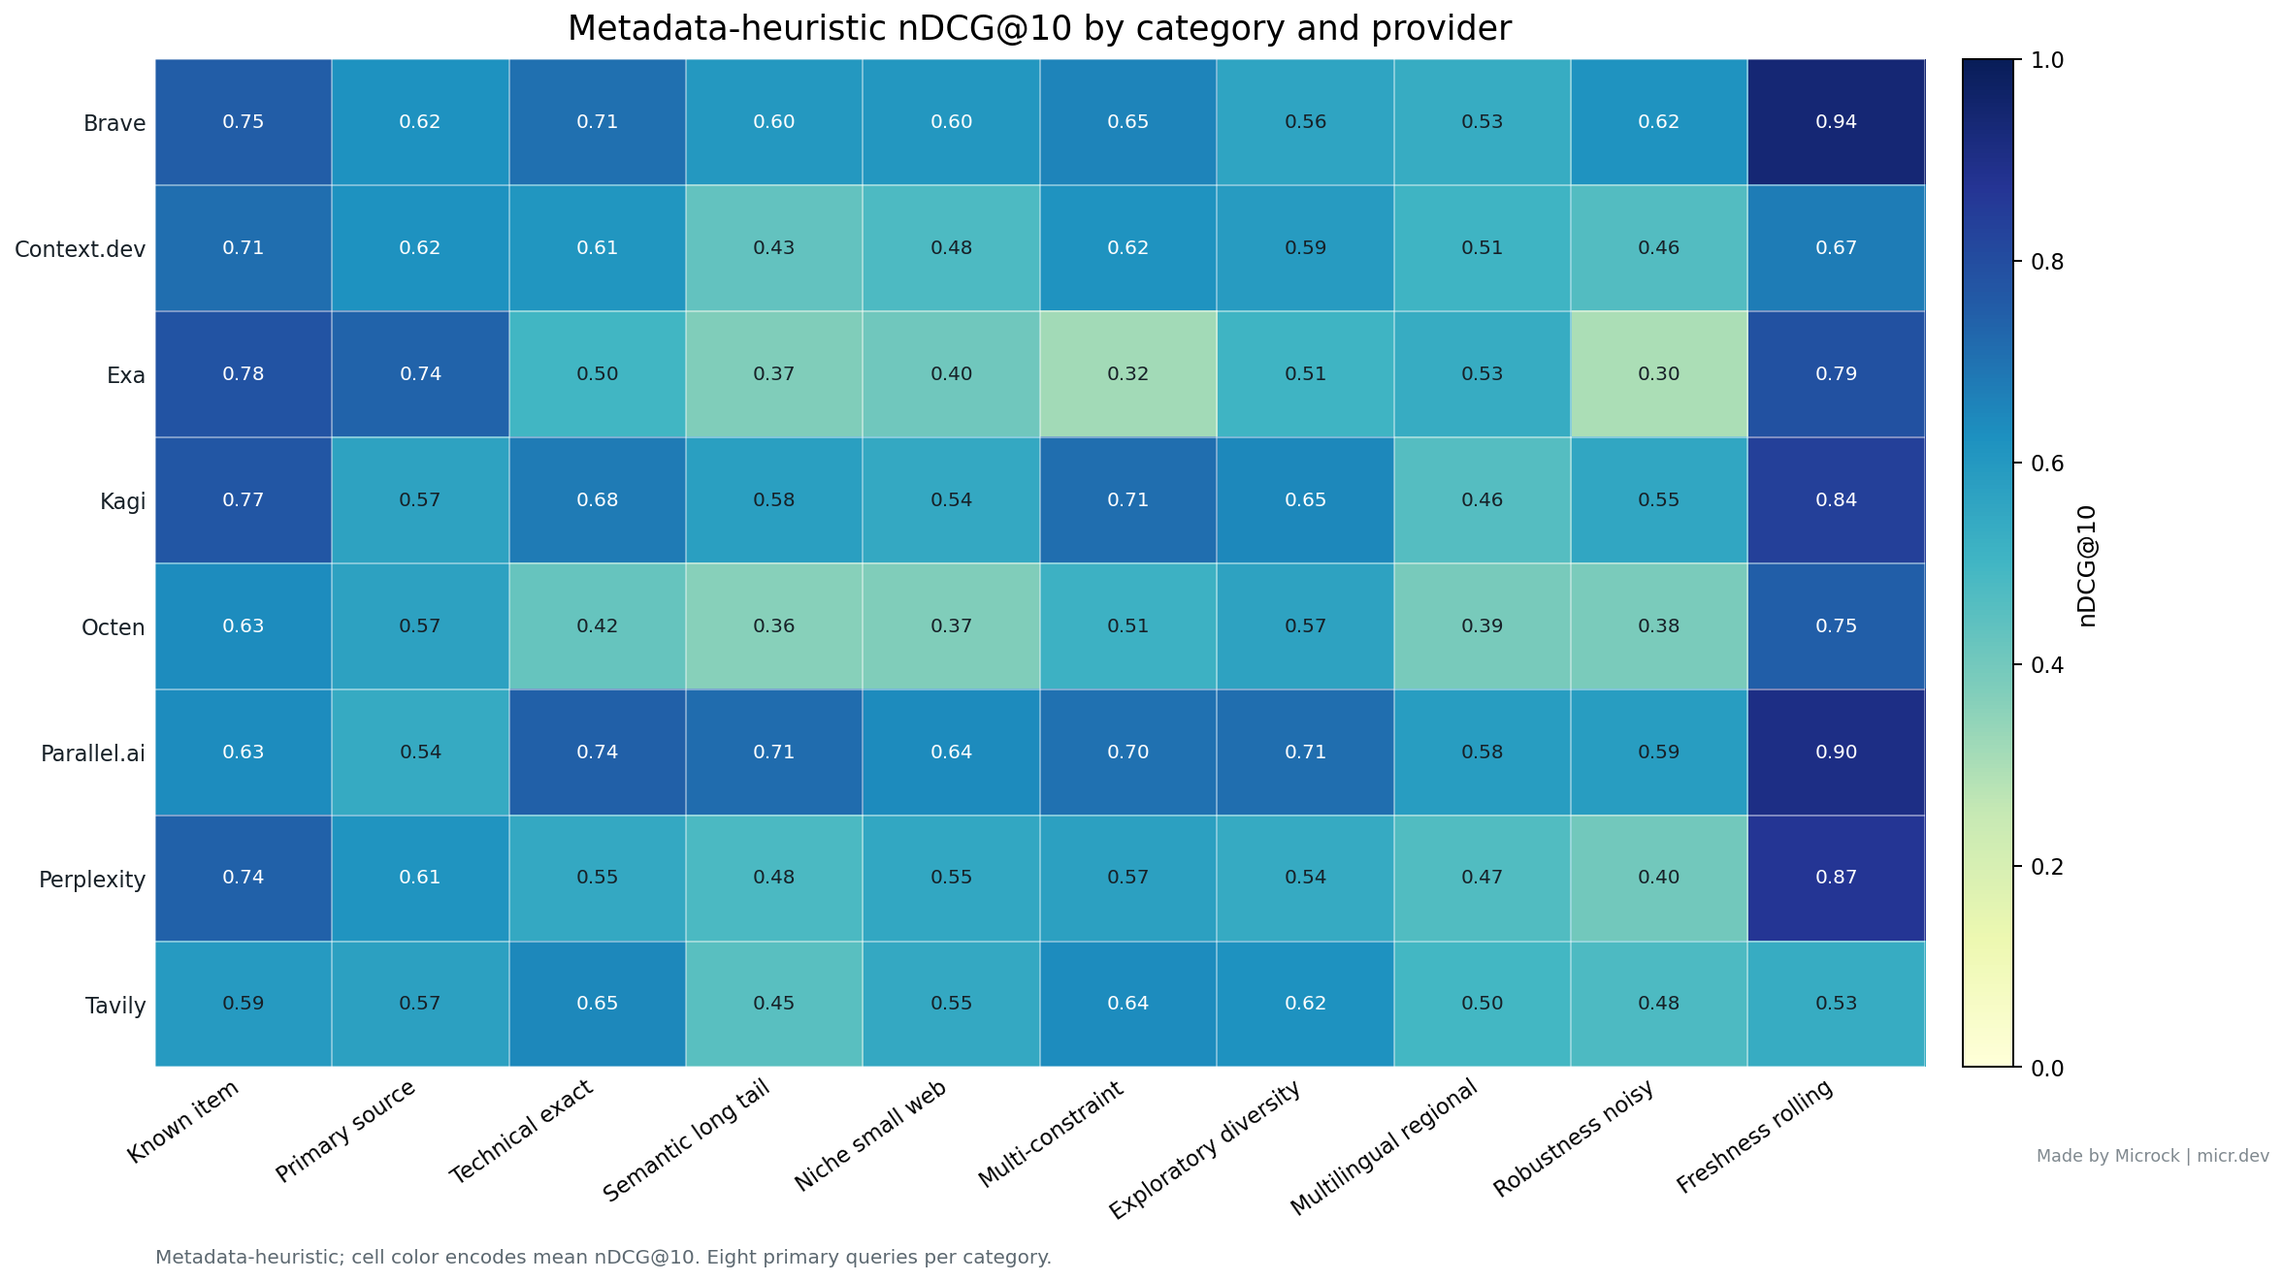
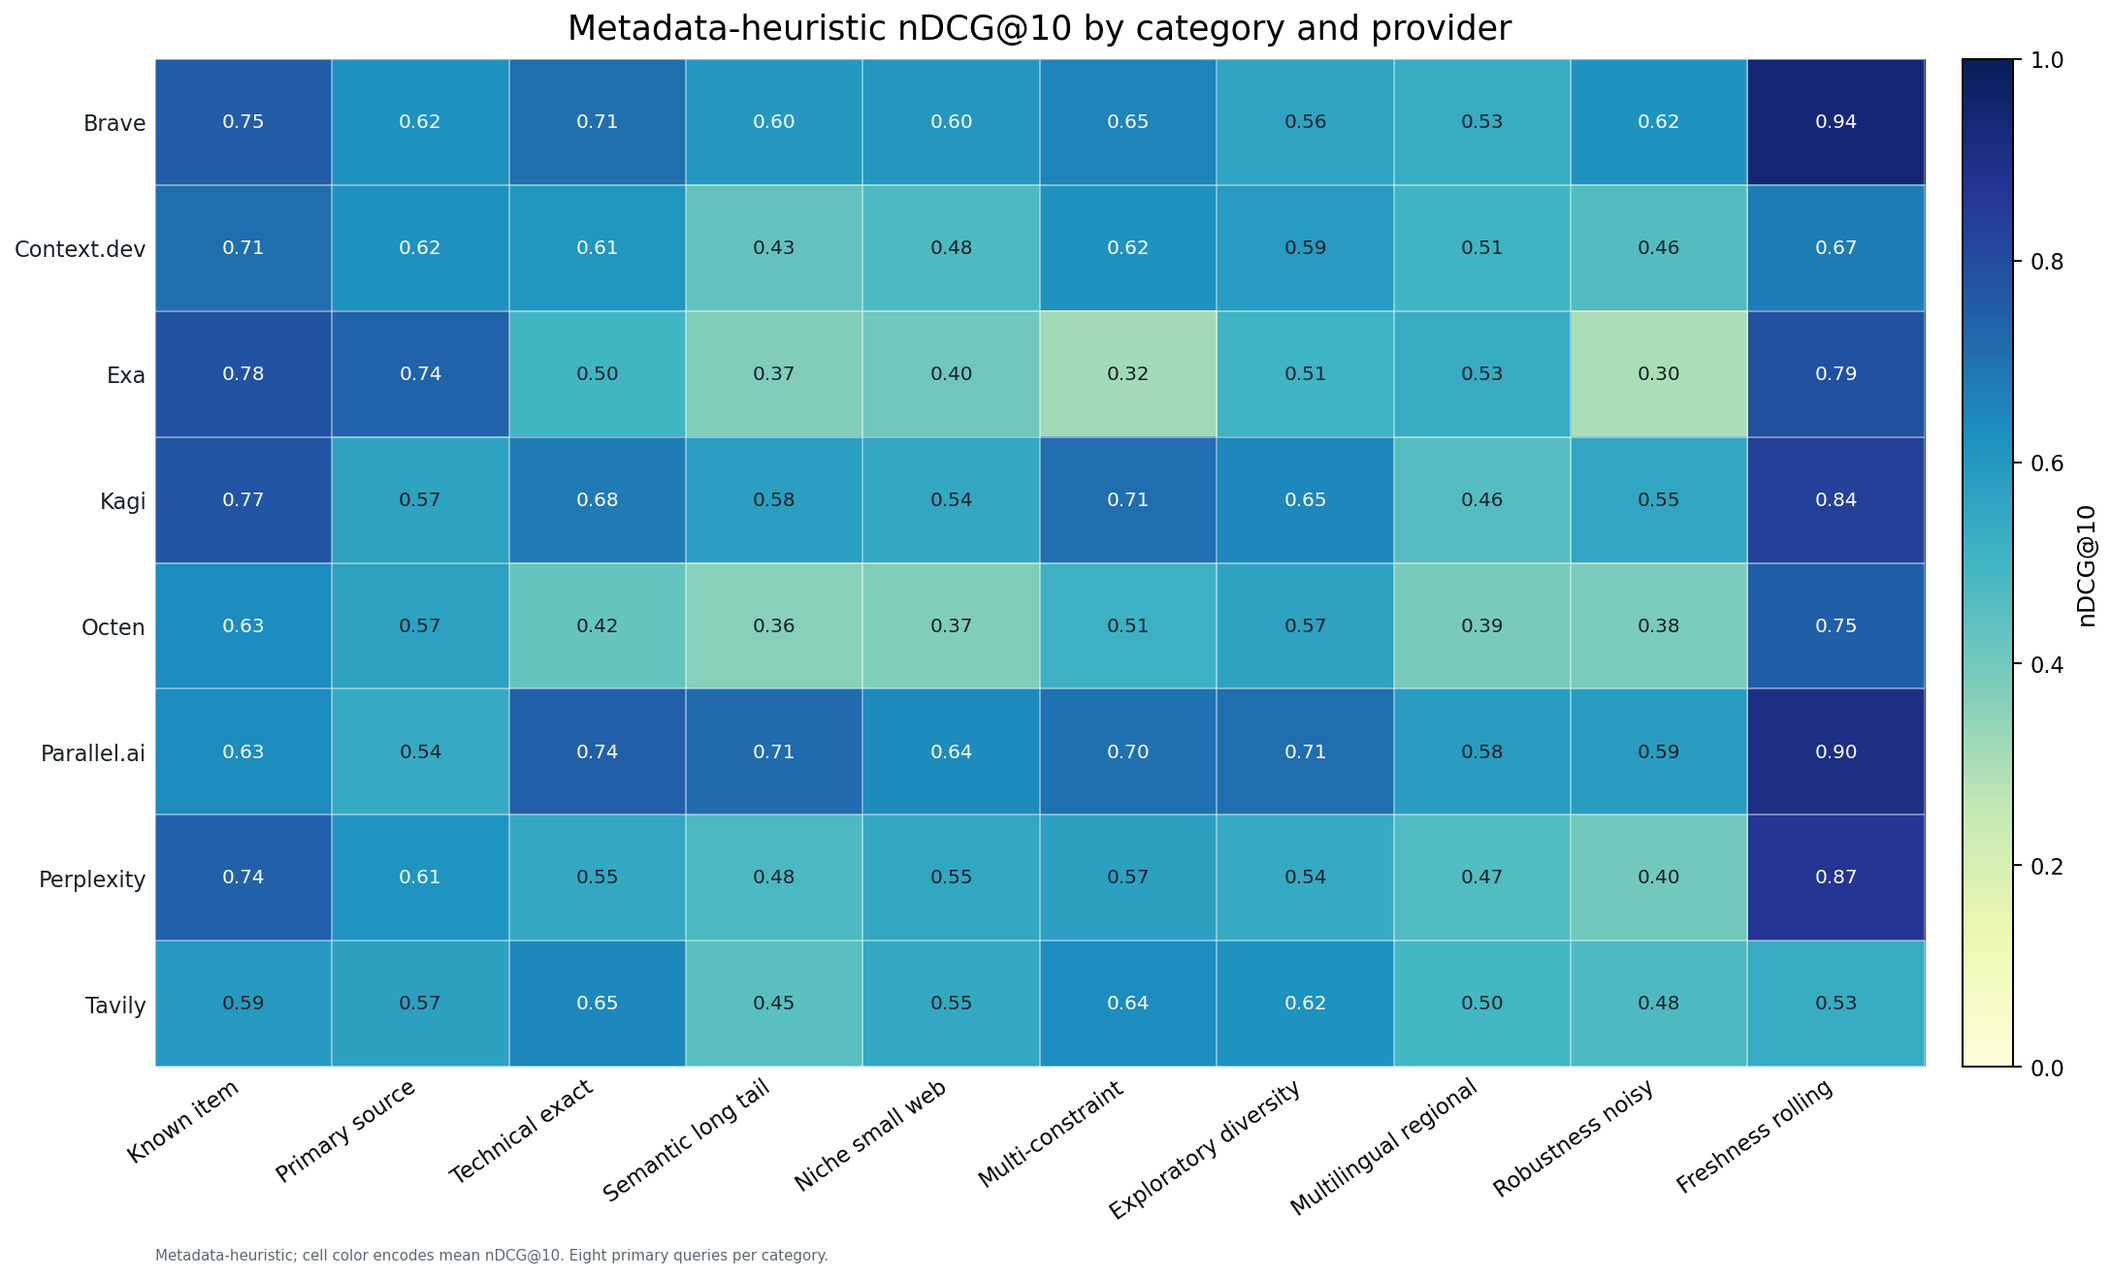
fix(charts): remove watermark and shrink chart footers
Remove the attribution overlay from all chart renderers and regenerate the published PNGs. Centralize explanatory footer sizing at 6 pt so the notes remain available without competing with the chart content.

diff --git a/analysis/plot_report.py b/analysis/plot_report.py
@@ -40,9 +40,9 @@ import numpy as np
 try:
     from chart_style import (
         BRAND_COLORS,
-        add_watermark,
         category_order,
         finish_heatmap,
+        FOOTER_SIZE,
         provider_order,
         style_heatmap_axes,
         annotate_heatmap,
@@ -50,9 +50,9 @@ try:
 except ImportError:  # pragma: no cover - supports package-style imports
     from .chart_style import (
         BRAND_COLORS,
-        add_watermark,
         category_order,
         finish_heatmap,
+        FOOTER_SIZE,
         provider_order,
         style_heatmap_axes,
         annotate_heatmap,
@@ -245,9 +245,8 @@ def save_overall_quality(out_dir: Path, summary: Dict[str, dict]) -> None:
     ax.set_title(method_title("nDCG@10 with 95% CI"))
     ax.invert_yaxis()
     ax.grid(axis="x", alpha=0.3)
-    fig.text(0.01, 0.01, f"{METHOD_LABEL}; each dot is the mean nDCG@10 across 80 primary queries; whiskers show the paired-bootstrap 95% confidence interval.", fontsize=8, color="#5c6870")
+    fig.text(0.01, 0.01, f"{METHOD_LABEL}; each dot is the mean nDCG@10 across 80 primary queries; whiskers show the paired-bootstrap 95% confidence interval.", fontsize=FOOTER_SIZE, color="#5c6870")
     fig.tight_layout(rect=(0, 0.05, 1, 1))
-    add_watermark(fig)
     fig.savefig(out_dir / "01_overall_quality_dot_whisker.png", dpi=180)
     plt.close(fig)
 
@@ -323,9 +322,8 @@ def save_win_tie_loss(out_dir: Path, per_query: List[dict], threshold: float = 0
     ax.set_title(method_title(f"paired win-tie-loss (tie threshold +/-{threshold:.2f} nDCG@10)"))
     ax.grid(axis="x", alpha=0.25)
     ax.legend(loc="lower center", bbox_to_anchor=(0.5, 1.02), ncol=3, frameon=False)
-    fig.text(0.01, 0.01, f"{METHOD_LABEL}; blue means the first provider wins, red means it loses, and gray means tie. Hatching provides a second visual cue.", fontsize=8, color="#5c6870")
+    fig.text(0.01, 0.01, f"{METHOD_LABEL}; blue means the first provider wins, red means it loses, and gray means tie. Hatching provides a second visual cue.", fontsize=FOOTER_SIZE, color="#5c6870")
     fig.tight_layout(rect=(0, 0.05, 1, 0.91))
-    add_watermark(fig)
     fig.savefig(out_dir / "03_pairwise_win_tie_loss.png", dpi=180)
     plt.close(fig)
 
@@ -362,9 +360,8 @@ def save_latency_ecdf(out_dir: Path, run_rows: List[dict]) -> None:
     ax.set_title(chart_title("Latency distribution of successful requests"))
     ax.grid(alpha=0.3)
     ax.legend(loc="lower center", bbox_to_anchor=(0.5, 1.02), ncol=3, frameon=False)
-    fig.text(0.01, 0.01, "Successful requests only (HTTP 2xx, no error). Each step is one observed latency value.", fontsize=8, color="#5c6870")
+    fig.text(0.01, 0.01, "Successful requests only (HTTP 2xx, no error). Each step is one observed latency value.", fontsize=FOOTER_SIZE, color="#5c6870")
     fig.tight_layout(rect=(0, 0.05, 1, 0.91))
-    add_watermark(fig)
     fig.savefig(out_dir / "05_latency_ecdf.png", dpi=180)
     plt.close(fig)
 
@@ -403,9 +400,8 @@ def save_relevance_by_rank(out_dir: Path, score_rows: List[dict]) -> None:
     ax.set_title(method_title("relevance grade by result position"))
     ax.grid(alpha=0.3)
     ax.legend(loc="upper left", frameon=False)
-    fig.text(0.01, 0.01, f"{METHOD_LABEL}; mean relevance grade at each rank position across all primary queries. Grade scale: 0 (off-topic) to 3 (highly relevant).", fontsize=8, color="#5c6870")
+    fig.text(0.01, 0.01, f"{METHOD_LABEL}; mean relevance grade at each rank position across all primary queries. Grade scale: 0 (off-topic) to 3 (highly relevant).", fontsize=FOOTER_SIZE, color="#5c6870")
     fig.tight_layout(rect=(0, 0.05, 1, 1))
-    add_watermark(fig)
     fig.savefig(out_dir / "06_mean_relevance_by_rank.png", dpi=180)
     plt.close(fig)
 
@@ -441,9 +437,8 @@ def save_overlap(out_dir: Path, score_rows: List[dict]) -> None:
     ax.set_xlabel("Relevant query-URL pairs")
     ax.grid(axis="x", alpha=0.25)
     ax.set_title(method_title("relevant-result sharing and uniqueness"))
-    fig.text(0.01, 0.01, f"{METHOD_LABEL}; top 15 nonzero provider combinations by count. Relevant results have grade >= 2, and each bar counts query-URL pairs found by exactly that combination, including singleton providers.", fontsize=8, color="#5c6870")
+    fig.text(0.01, 0.01, f"{METHOD_LABEL}; top 15 nonzero provider combinations by count. Relevant results have grade >= 2, and each bar counts query-URL pairs found by exactly that combination, including singleton providers.", fontsize=FOOTER_SIZE, color="#5c6870")
     fig.tight_layout(rect=(0, 0.05, 1, 1))
-    add_watermark(fig)
     fig.savefig(out_dir / "07_relevant_result_overlap_upset_style.png", dpi=180)
     plt.close(fig)
 
@@ -493,9 +488,8 @@ def save_error_composition(out_dir: Path, run_rows: List[dict]) -> None:
     ax.set_title(chart_title("Error breakdown by failure type"))
     ax.grid(axis="y", alpha=0.25)
     ax.legend()
-    fig.text(0.01, 0.01, "Share of total recorded failures per provider. Providers with zero failures are not shown.", fontsize=8, color="#5c6870")
+    fig.text(0.01, 0.01, "Share of total recorded failures per provider. Providers with zero failures are not shown.", fontsize=FOOTER_SIZE, color="#5c6870")
     fig.tight_layout(rect=(0, 0.05, 1, 1))
-    add_watermark(fig)
     fig.savefig(out_dir / "08_error_composition.png", dpi=180)
     plt.close(fig)
 

diff --git a/analysis/make_operational_charts.py b/analysis/make_operational_charts.py
@@ -18,9 +18,9 @@ matplotlib.use("Agg")
 import matplotlib.pyplot as plt
 
 try:
-    from chart_style import BRAND_COLORS, add_watermark
+    from chart_style import BRAND_COLORS, FOOTER_SIZE
 except ImportError:  # pragma: no cover - supports package-style imports
-    from .chart_style import BRAND_COLORS, add_watermark
+    from .chart_style import BRAND_COLORS, FOOTER_SIZE
 
 
 PROVIDER_ORDER = ["brave", "context", "exa", "kagi_session", "octen", "parallel", "perplexity", "tavily"]
@@ -93,7 +93,6 @@ def ordered_summary(summary: pd.DataFrame) -> pd.DataFrame:
 
 
 def save_figure(fig: plt.Figure, path: Path) -> None:
-    add_watermark(fig)
     fig.savefig(path, dpi=180, bbox_inches="tight", pad_inches=0.05)
     plt.close(fig)
 
@@ -113,7 +112,7 @@ def make_latency_chart(summary: pd.DataFrame, out_dir: Path) -> None:
     for index, row in data.iterrows():
         ax.text(index - width / 2, row["p50_latency_ms"] + 55, f"{row['p50_latency_ms']:.0f}", ha="center", fontsize=8)
         ax.text(index + width / 2, row["p95_latency_ms"] + 55, f"{row['p95_latency_ms']:.0f}", ha="center", fontsize=8)
-    fig.text(0.01, 0.01, "All 96 requests per provider: 80 primary and 16 reference queries. Successful HTTP 2xx requests only.", fontsize=8, color="#5c6870")
+    fig.text(0.01, 0.01, "All 96 requests per provider: 80 primary and 16 reference queries. Successful HTTP 2xx requests only.", fontsize=FOOTER_SIZE, color="#5c6870")
     fig.tight_layout(rect=(0, 0.05, 1, 1))
     save_figure(fig, out_dir / "latency-summary.png")
 
@@ -132,7 +131,7 @@ def make_depth_chart(summary: pd.DataFrame, out_dir: Path) -> None:
     depth_ax.grid(axis="y", alpha=0.25)
     for index, value in enumerate(data["mean_results_per_request"]):
         depth_ax.text(index, value + 0.15, f"{value:.2f}", ha="center", fontsize=8)
-    depth_fig.text(0.01, 0.01, "All 96 requests per provider: 80 primary and 16 reference queries.", fontsize=8, color="#5c6870")
+    depth_fig.text(0.01, 0.01, "All 96 requests per provider: 80 primary and 16 reference queries.", fontsize=FOOTER_SIZE, color="#5c6870")
     depth_fig.tight_layout(rect=(0, 0.06, 1, 1))
     save_figure(depth_fig, out_dir / "result-depth.png")
 
@@ -145,7 +144,7 @@ def make_depth_chart(summary: pd.DataFrame, out_dir: Path) -> None:
     short_list_ax.grid(axis="y", alpha=0.25)
     for index, value in enumerate(data["short_list_pct"]):
         short_list_ax.text(index, value + 2, f"{value:.1f}%", ha="center", fontsize=8)
-    short_list_fig.text(0.01, 0.01, "96 requests per provider. Fewer than 10 results counts as a short list.", fontsize=8, color="#5c6870")
+    short_list_fig.text(0.01, 0.01, "96 requests per provider. Fewer than 10 results counts as a short list.", fontsize=FOOTER_SIZE, color="#5c6870")
     short_list_fig.tight_layout(rect=(0, 0.06, 1, 1))
     save_figure(short_list_fig, out_dir / "short-list-rate.png")
 
@@ -190,7 +189,6 @@ def make_cost_chart(summary: pd.DataFrame, billing: pd.DataFrame, out_dir: Path)
             y = bar.get_height() + label_offset
         ax.text(bar.get_x() + bar.get_width() / 2, y, label, ha="center", fontsize=8)
     fig.subplots_adjust(bottom=0.20, left=0.14, right=0.98, top=0.91)
-    add_watermark(fig)
     fig.savefig(out_dir / "cost-comparison.png", dpi=dpi, facecolor="white")
     plt.close(fig)
 
@@ -217,7 +215,7 @@ def make_latency_ecdf(runs: pd.DataFrame, out_dir: Path) -> None:
     ax.set_title("Latency distribution of successful requests")
     ax.grid(alpha=0.25)
     ax.legend()
-    fig.text(0.01, 0.01, "Successful requests only (HTTP 2xx, no error) across the 80 primary and 16 reference queries. Each step is one observed latency.", fontsize=8, color="#5c6870")
+    fig.text(0.01, 0.01, "Successful requests only (HTTP 2xx, no error) across the 80 primary and 16 reference queries. Each step is one observed latency.", fontsize=FOOTER_SIZE, color="#5c6870")
     fig.tight_layout(rect=(0, 0.05, 1, 1))
     save_figure(fig, out_dir / "latency-ecdf.png")
 

diff --git a/analysis/make_study_charts.py b/analysis/make_study_charts.py
@@ -26,8 +26,8 @@ try:
         CATEGORY_LABELS,
         CATEGORY_ORDER,
         DISPLAY_NAMES,
+        FOOTER_SIZE,
         HEATMAP_FIGSIZE,
-        add_watermark,
         annotate_heatmap,
         finish_heatmap,
         provider_order as shared_provider_order,
@@ -40,8 +40,8 @@ except ImportError:  # pragma: no cover - supports package-style imports
         CATEGORY_LABELS,
         CATEGORY_ORDER,
         DISPLAY_NAMES,
+        FOOTER_SIZE,
         HEATMAP_FIGSIZE,
-        add_watermark,
         annotate_heatmap,
         finish_heatmap,
         provider_order as shared_provider_order,
@@ -84,7 +84,6 @@ def load_inputs(run_dir: Path) -> dict[str, pd.DataFrame]:
 
 
 def save_figure(fig: plt.Figure, path: Path) -> None:
-    add_watermark(fig)
     fig.savefig(path, dpi=180, bbox_inches="tight", pad_inches=0.05)
     plt.close(fig)
 
@@ -321,7 +320,7 @@ def make_resolution_health(data: dict[str, pd.DataFrame], out_dir: Path) -> None
     axes[1].set_title("Resolver-observed success by rank")
     axes[1].grid(alpha=0.25)
     axes[1].legend(fontsize=8)
-    fig.text(0.01, 0.01, "Resolver snapshot: flagged does not prove unavailable. 403/429 can be access blocks; unresolved URLs were not tested.", fontsize=8, color="#5c6870")
+    fig.text(0.01, 0.01, "Resolver snapshot: flagged does not prove unavailable. 403/429 can be access blocks; unresolved URLs were not tested.", fontsize=FOOTER_SIZE, color="#5c6870")
     fig.tight_layout(rect=(0, 0.07, 1, 1))
     save_figure(fig, out_dir / "url-resolution-health.png")
 
@@ -493,7 +492,7 @@ def make_source_ecology(data: dict[str, pd.DataFrame], out_dir: Path) -> None:
     ax.set_title("Source ecology of the result lists")
     ax.grid(axis="x", alpha=0.25)
     ax.legend(fontsize=8, ncol=3, loc="lower left", bbox_to_anchor=(0, -0.34))
-    fig.text(0.01, 0.01, "Host share is descriptive, not a relevance or authority score. Other hosts includes every domain outside the eight most common.", fontsize=8, color="#5c6870")
+    fig.text(0.01, 0.01, "Host share is descriptive, not a relevance or authority score. Other hosts includes every domain outside the eight most common.", fontsize=FOOTER_SIZE, color="#5c6870")
     fig.tight_layout(rect=(0, 0.08, 1, 1))
     save_figure(fig, out_dir / "source-ecology.png")
 

diff --git a/analysis/make_artificial_analysis_chart.py b/analysis/make_artificial_analysis_chart.py
@@ -7,9 +7,9 @@ import matplotlib.ticker as ticker
 import numpy as np
 from pathlib import Path
 try:
-    from chart_style import BRAND_COLORS, DISPLAY_NAMES, HEATMAP_MUTED, HEATMAP_TEXT, add_watermark
+    from chart_style import BRAND_COLORS, DISPLAY_NAMES, FOOTER_SIZE, HEATMAP_MUTED, HEATMAP_TEXT
 except ImportError:  # pragma: no cover - supports package-style imports
-    from .chart_style import BRAND_COLORS, DISPLAY_NAMES, HEATMAP_MUTED, HEATMAP_TEXT, add_watermark
+    from .chart_style import BRAND_COLORS, DISPLAY_NAMES, FOOTER_SIZE, HEATMAP_MUTED, HEATMAP_TEXT
 
 TARGET_QUALITY = 0.55
 TARGET_BAND_COLOR = "#e8f2eb"
@@ -162,9 +162,8 @@ def create_pareto_chart(
     if include_frontier:
         ax.legend(loc="lower right", frameon=False)
 
-    fig.text(0.01, 0.01, footer, fontsize=8, color=HEATMAP_MUTED)
+    fig.text(0.01, 0.01, footer, fontsize=FOOTER_SIZE, color=HEATMAP_MUTED)
     fig.tight_layout(rect=(0, 0.05, 1, 1))
-    add_watermark(fig)
     
     plt.savefig(out_path, dpi=180, bbox_inches="tight", facecolor="white")
     plt.close(fig)
@@ -257,14 +256,13 @@ def create_ai_3d_chart(data: list, out_path: Path) -> None:
         0.01,
         0.01,
         "Supplementary 3D view. Height is mean AI-judged nDCG@10; cost bases are provider-specific. Use the 2D Pareto charts for exact trade-offs.",
-        fontsize=8,
+        fontsize=FOOTER_SIZE,
         color=HEATMAP_MUTED,
     )
     fig.subplots_adjust(left=0.01, right=0.87, bottom=0.12, top=0.93)
     # The fixed camera projects the cube toward the right side of the canvas;
     # shift the complete axes left so the angled cost label has breathing room.
     ax.set_position([-0.09, 0.12, 0.86, 0.81])
-    add_watermark(fig, x=0.84)
     plt.savefig(out_path, dpi=180, bbox_inches="tight", pad_inches=0.08, facecolor="white")
     plt.close(fig)
     print(f"Generated AI quality-cost-latency 3D chart at {out_path}")

diff --git a/analysis/make_final_link_health_chart.py b/analysis/make_final_link_health_chart.py
@@ -15,9 +15,9 @@ import numpy as np
 from PIL import Image, ImageDraw, ImageFont
 
 try:
-    from chart_style import DISPLAY_NAMES, provider_order
+    from chart_style import DISPLAY_NAMES, FOOTER_SIZE, provider_order
 except ImportError:  # pragma: no cover - supports package-style imports
-    from .chart_style import DISPLAY_NAMES, provider_order
+    from .chart_style import DISPLAY_NAMES, FOOTER_SIZE, provider_order
 
 
 ORDER = [
@@ -85,7 +85,7 @@ def render_historical_targeted_chart(input_path: Path, output_path: Path, *, tit
     axis.set_axisbelow(True)
     handles, legend_labels = axis.get_legend_handles_labels()
     fig.legend(handles, legend_labels, loc="upper center", bbox_to_anchor=(0.5, 0.90), ncol=3, frameon=False)
-    fig.text(0.5, 0.02, subtitle, ha="center", fontsize=8, color="#5c6870")
+    fig.text(0.5, 0.02, subtitle, ha="center", fontsize=FOOTER_SIZE, color="#5c6870")
     fig.subplots_adjust(top=0.70, bottom=0.22, left=0.08, right=0.98)
     output_path.parent.mkdir(parents=True, exist_ok=True)
     fig.savefig(output_path, dpi=180, bbox_inches="tight", facecolor="white")
@@ -177,7 +177,7 @@ def render(input_path: Path, output_path: Path) -> None:
         0.01,
         "Provider-local normalized URL counts. Clean share is GET OK or GET redirect. Source-level confirmations are not shown; warning categories are unconfirmed, not dead. Pass 5 rechecked 138 residual rows and promoted none.",
         color="#5c6870",
-        fontsize=8,
+        fontsize=FOOTER_SIZE,
     )
     output_path.parent.mkdir(parents=True, exist_ok=True)
     fig.savefig(output_path, dpi=160, bbox_inches="tight")

diff --git a/analysis/chart_style.py b/analysis/chart_style.py
@@ -71,7 +71,7 @@ HEATMAP_TICK_SIZE = 9
 HEATMAP_CELL_TEXT_SIZE = 8
 HEATMAP_AXIS_LABEL_SIZE = 10
 HEATMAP_COLORBAR_TICK_SIZE = 9
-HEATMAP_FOOTER_SIZE = 8
+FOOTER_SIZE = 6
 
 HEATMAP_CELL_WIDTH = 0.074
 HEATMAP_CELL_HEIGHT = 0.090
@@ -79,24 +79,6 @@ HEATMAP_GRID_CENTER_X = 0.48
 HEATMAP_GRID_BOTTOM = 0.20
 HEATMAP_COLORBAR_GAP = 0.018
 HEATMAP_COLORBAR_WIDTH = 0.014
-WATERMARK_TEXT = "Made by Microck | micr.dev"
-
-
-def add_watermark(fig: plt.Figure, *, x: float = 0.99) -> None:
-    """Add a restrained attribution mark to the lower-right figure margin."""
-
-    fig.text(
-        x,
-        0.035,
-        WATERMARK_TEXT,
-        ha="right",
-        va="bottom",
-        fontsize=7,
-        color=HEATMAP_MUTED,
-        alpha=0.78,
-        bbox={"facecolor": "white", "edgecolor": "none", "alpha": 0.78, "pad": 1.5},
-        zorder=100,
-    )
 
 
 def ordered_values(values: Iterable[object], preferred: Sequence[str]) -> list[str]:
@@ -222,11 +204,10 @@ def finish_heatmap(
             0, -0.18 if not xlabel else -0.30,
             footer,
             transform=ax.transAxes,
-            fontsize=HEATMAP_FOOTER_SIZE,
+            fontsize=FOOTER_SIZE,
             color=HEATMAP_MUTED,
             va="top",
             clip_on=False,
         )
-    add_watermark(fig)
     fig.savefig(output, dpi=HEATMAP_DPI, facecolor="white", bbox_inches="tight", pad_inches=0.08)
     plt.close(fig)
